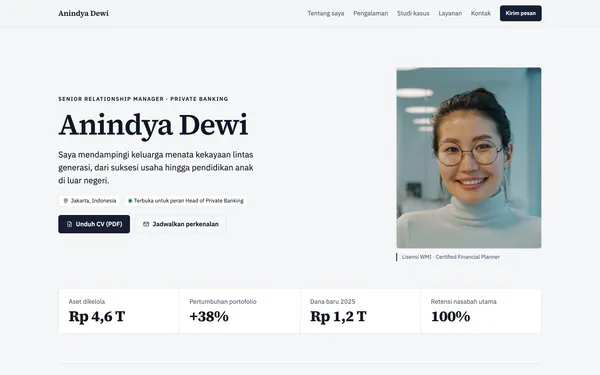
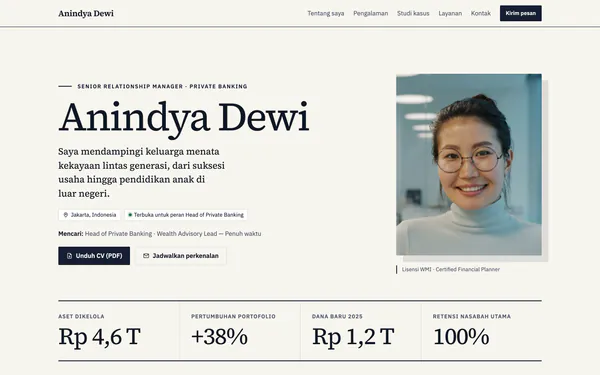
feat(portfolio): redesign the Prima theme as an annual report
Prima read as a generic template: a cold grey page and twelve identical
title-and-content rows with hairlines. It now sets the page like an annual
report: an ivory page and square corners, a large serif name, key figures in
serif numerals between heavy rules, every section under a heavy rule with its
number and serif title, full-width case studies with the first one featured, a
pull-quote testimonial, square timeline markers and contact on an inverted
band.

diff --git a/packages/portfolio/src/themes/prima/css.ts b/packages/portfolio/src/themes/prima/css.ts
@@ -1,11 +1,12 @@
 /**
- * Prima: formal and wide (1160 px), square-ish 6 px corners, white cards on a light grey page, a sticky translucent
- * navigation, the intro beside the photo, a joined KPI strip, and every section as a two-column row (220 px title |
- * content). Values from `mockups/prima.html`; the variants the theme offers (`PORTFOLIO_THEME_INFO.prima.variants`)
+ * Prima: formal and wide (1160 px), set like an annual report: an ivory page, square corners, a sticky masthead, a
+ * large serif name beside the photo, key figures in large serif numerals between rules, and every section under a
+ * heavy rule with its number and serif title in a rail. Case studies take the full width with the first one featured,
+ * the first testimonial is a pull quote, and contact sits on an inverted band. Values from `mockups/prima.html`; the variants the theme offers (`PORTFOLIO_THEME_INFO.prima.variants`)
  * are data attributes.
  */
 export const PRIMA_CSS = String.raw`
-.pf[data-theme="prima"]{--pf-max-width:1160px;--pf-radius:6px;--pf-radius-sm:4px;--pf-hero-ground:var(--pf-surface);--pf-hero-shade:rgb(8 10 14/.68),rgb(8 10 14/.76)}
+.pf[data-theme="prima"]{--pf-max-width:1160px;--pf-radius:2px;--pf-radius-sm:2px;--pf-hero-ground:var(--pf-surface);--pf-hero-shade:rgb(8 10 14/.68),rgb(8 10 14/.76)}
 .pf[data-theme="prima"] .pf-btn{border-radius:var(--pf-radius)}
 .pf[data-theme="prima"] .pf-btn--primary{border-color:color-mix(in oklab,var(--pf-accent) 78%,var(--pf-text))}
 .pf[data-theme="prima"] .pf-chip{border-radius:var(--pf-radius-sm);background:var(--pf-surface);border:1px solid var(--pf-border)}
@@ -129,4 +130,78 @@ export const PRIMA_CSS = String.raw`
 .pf[data-theme="prima"] .pf-workpage__step{background:var(--pf-surface)}
 .pf[data-theme="prima"] .pf-detail__title{font-weight:600}
 .pf[data-theme="prima"] .pf-detail__hero{border:1px solid var(--pf-border)}
+.pf[data-theme="prima"] .pr-head{background:color-mix(in oklab,var(--pf-bg) 90%,transparent);border-bottom:1px solid var(--pf-text)}
+.pf[data-theme="prima"] .pr-brand{font:600 1.25rem/1.2 var(--pf-font-heading);letter-spacing:-.01em}
+.pf[data-theme="prima"] .pf-nav__links a{font-size:var(--pf-text-sm)}
+.pf[data-theme="prima"] .pr-hero{padding-block:clamp(48px,8vw,112px) clamp(48px,6vw,80px)}
+.pf[data-theme="prima"] .pr-name{font-size:min(clamp(3rem,1.6rem + 5.2vw,6rem),calc(var(--pr-col) / (var(--name-word) * .58)));font-weight:500;letter-spacing:-.035em;line-height:.98}
+.pf[data-theme="prima"] .pr-headline{display:flex;align-items:center;gap:14px}
+.pf[data-theme="prima"] .pr-headline::before{content:"";flex:none;width:32px;height:2px;background:currentColor}
+.pf[data-theme="prima"] .pr-greeting{font:400 clamp(1.15rem,1rem + .5vw,1.4rem)/1.5 var(--pf-font-heading);max-width:36ch}
+.pf[data-theme="prima"] .pr-photo{max-width:380px}
+.pf[data-theme="prima"] .pr-photo img{border:0;box-shadow:16px 16px 0 -1px var(--pf-accent-soft),16px 16px 0 0 var(--pf-border)}
+.pf[data-theme="prima"] .pr-photo figcaption{margin-top:14px}
+.pf[data-theme="prima"] .pr-kpis .pf-metrics{gap:0;border:0;border-block:2px solid var(--pf-text);border-radius:0;background:none}
+.pf[data-theme="prima"] .pr-kpis .pf-metrics::after{content:none}
+.pf[data-theme="prima"] .pr-kpis .pf-metrics .pf-metric{gap:10px;padding:28px 28px 30px;background:none}
+.pf[data-theme="prima"] .pr-kpis .pf-metric:first-child{padding-inline-start:0}
+.pf[data-theme="prima"] .pr-kpis .pf-metric+.pf-metric{border-inline-start:1px solid var(--pf-border)}
+.pf[data-theme="prima"] .pr-kpis .pf-metric__label{font:600 var(--pf-text-xs)/1.4 var(--pf-font-body);letter-spacing:.08em;text-transform:uppercase}
+.pf[data-theme="prima"] .pr-kpis .pf-metric__value{font:500 clamp(2.25rem,1.5rem + 2.4vw,3.5rem)/1 var(--pf-font-heading);letter-spacing:-.03em;color:var(--pf-text)}
+.pf[data-theme="prima"] .pr-row{grid-template-columns:260px minmax(0,1fr);grid-template-rows:auto 1fr;column-gap:56px;row-gap:8px;padding-block:28px clamp(56px,7vw,96px);border-top:2px solid var(--pf-text)}
+.pf[data-theme="prima"] .pr-row:last-child{border-bottom:0}
+.pf[data-theme="prima"] .pr-row>.pf-section__title{grid-column:1;grid-row:2;align-self:start;font-size:clamp(1.75rem,1.3rem + 1.4vw,2.5rem);font-weight:500;letter-spacing:-.025em;line-height:1.1}
+.pf[data-theme="prima"] .pr-row__index{grid-column:1;grid-row:1;color:var(--pf-accent-text);font:600 var(--pf-text-xs)/1.6 var(--pf-font-body);letter-spacing:.12em;font-variant-numeric:tabular-nums}
+.pf[data-theme="prima"] .pr-row>.pr-row__body{grid-column:2;grid-row:1/span 2;padding-top:20px}
+.pf[data-theme="prima"] .pr-facts{grid-template-rows:auto;padding-top:clamp(40px,5vw,56px);border-top-width:1px;border-top-color:var(--pf-border)}
+.pf[data-theme="prima"] .pr-lead{font:400 clamp(1.3rem,1.05rem + .8vw,1.75rem)/1.5 var(--pf-font-heading);letter-spacing:-.01em}
+.pf[data-theme="prima"] .pr-lead strong{font-weight:600}
+.pf[data-theme="prima"] .pr-lead p+p{margin-top:.8em;font:400 var(--pf-text-md)/1.65 var(--pf-font-body);color:var(--pf-muted);max-width:62ch}
+.pf[data-theme="prima"] .pr-row:has(.pr-works){grid-template-columns:minmax(0,1fr);grid-template-rows:auto auto auto}
+.pf[data-theme="prima"] .pr-row:has(.pr-works)>.pf-section__title{font-size:clamp(2.25rem,1.5rem + 2.4vw,3.5rem)}
+.pf[data-theme="prima"] .pr-row:has(.pr-works)>.pr-row__body{grid-column:1;grid-row:3;padding-top:32px}
+.pf[data-theme="prima"] .pr-works{gap:28px}
+.pf[data-theme="prima"] .pr-works[data-variant="grid-2"]{grid-template-columns:repeat(2,minmax(0,1fr))}
+.pf[data-theme="prima"] .pr-works[data-variant="grid-3"]{grid-template-columns:repeat(3,minmax(0,1fr))}
+.pf[data-theme="prima"] .pr-works:is([data-variant="grid-2"],[data-variant="grid-3"])>.pr-work:first-child:not([data-noimg]){grid-column:1/-1}
+.pf[data-theme="prima"] .pr-works:is([data-variant="grid-2"],[data-variant="grid-3"])>.pr-work:first-child:not([data-noimg]) .pr-card{grid-template-columns:minmax(0,1.4fr) minmax(0,1fr);grid-template-rows:auto}
+.pf[data-theme="prima"] .pr-works:is([data-variant="grid-2"],[data-variant="grid-3"])>.pr-work:first-child:not([data-noimg]) .pr-card__cover{border-bottom:0;border-inline-end:1px solid var(--pf-border);aspect-ratio:auto;min-height:100%}
+.pf[data-theme="prima"] .pr-works:is([data-variant="grid-2"],[data-variant="grid-3"])>.pr-work:first-child:not([data-noimg]) .pr-card__body{align-content:center;gap:14px;padding:clamp(28px,4vw,56px)}
+.pf[data-theme="prima"] .pr-works:is([data-variant="grid-2"],[data-variant="grid-3"])>.pr-work:first-child:not([data-noimg]) .pr-card__title{font-size:clamp(1.6rem,1.2rem + 1.2vw,2.25rem);line-height:1.15}
+.pf[data-theme="prima"] .pr-works:is([data-variant="grid-2"],[data-variant="grid-3"])>.pr-work:first-child:not([data-noimg]) .pr-card__summary{font-size:var(--pf-text-md)}
+.pf[data-theme="prima"] .pr-card{border-color:var(--pf-border)}
+.pf[data-theme="prima"] .pr-card:is(:hover,:focus-visible){border-color:var(--pf-text);box-shadow:none}
+.pf[data-theme="prima"] .pr-card__meta{font-weight:600;letter-spacing:.06em;text-transform:uppercase;font-size:11px}
+.pf[data-theme="prima"] .pr-card__title{font-size:1.35rem}
+.pf[data-theme="prima"] .pf-work-metric{background:var(--pf-accent-soft);color:var(--pf-accent-text-soft)}
+.pf[data-theme="prima"] .pr-services[data-variant="cards"]{gap:0;border-top:1px solid var(--pf-border);border-inline-start:1px solid var(--pf-border)}
+.pf[data-theme="prima"] .pr-services[data-variant="cards"] .pf-service{border:0;border-inline-end:1px solid var(--pf-border);border-bottom:1px solid var(--pf-border);border-radius:0;padding:28px}
+.pf[data-theme="prima"] .pf-service h3{font:600 var(--pf-text-lg)/1.3 var(--pf-font-heading)}
+.pf[data-theme="prima"] .pf-service__price{font-family:var(--pf-font-heading);font-size:var(--pf-text-md)}
+.pf[data-theme="prima"] .pr-quotes{gap:28px}
+.pf[data-theme="prima"] .pr-quotes .pf-quote{padding:0 0 0 22px;border:0;border-inline-start:2px solid var(--pf-border);border-radius:0;background:none}
+.pf[data-theme="prima"] .pr-quotes:not([data-variant="carousel"]) .pf-quote:first-child{grid-column:1/-1;padding-inline-start:28px;border-inline-start-color:var(--pf-accent-text)}
+.pf[data-theme="prima"] .pr-quotes:not([data-variant="carousel"]) .pf-quote:first-child blockquote{font-size:clamp(1.5rem,1.1rem + 1.4vw,2.25rem);line-height:1.35;letter-spacing:-.01em}
+.pf[data-theme="prima"] .pr-row:has(.pr-contact){--pr-band:var(--pf-text);width:100vw;margin-inline:calc(50% - 50vw);margin-top:24px;padding-inline:max(16px,calc((100vw - var(--pf-max-width)) / 2));padding-block:clamp(48px,6vw,88px);border-top:0;background:var(--pf-text);color:var(--pf-bg)}
+.pf[data-theme="prima"] .pf:has(.pr-contact),.pf[data-theme="prima"]:has(.pr-contact){overflow-x:clip}
+.pf[data-theme="prima"] .pr-row:has(.pr-contact) .pr-row__index{color:inherit;opacity:.7}
+.pf[data-theme="prima"] .pr-row:has(.pr-contact) :is(.pf-contact-links span,.pf-contact-links a){color:inherit}
+.pf[data-theme="prima"] .pr-row:has(.pr-contact) .pf-contact-links span{opacity:.72}
+.pf[data-theme="prima"] .pr-row:has(.pr-contact) .pf-btn--primary{background:var(--pf-bg);color:var(--pf-text);border-color:var(--pf-bg)}
+.pf[data-theme="prima"] .pr-row:has(.pr-contact) .pf-btn--secondary{background:transparent;color:var(--pf-bg);border-color:color-mix(in oklab,var(--pf-bg) 45%,transparent)}
+.pf[data-theme="prima"] .pr-row:has(.pr-contact) .pf-btn--secondary:hover{border-color:var(--pf-bg)}
+.pf[data-theme="prima"] .pr-row:has(.pr-contact) .pf-loc{color:var(--pf-text)}
+.pf[data-theme="prima"] .pr-row:has(.pr-contact) .pf-form{color:var(--pf-text);background:var(--pf-surface);padding:20px}
+.pf[data-theme="prima"] .pr-cta{font:500 clamp(1.75rem,1.2rem + 1.8vw,2.75rem)/1.15 var(--pf-font-heading);letter-spacing:-.02em;max-width:22ch}
+.pf[data-theme="prima"] .pr-main:has(.pr-row:last-child .pr-contact){padding-bottom:0}
+.pf[data-theme="prima"] .pf-foot{border-top:0}
+@media (max-width:1000px){.pf[data-theme="prima"] .pr-works[data-variant="grid-3"]{grid-template-columns:repeat(2,minmax(0,1fr))}}
+@media (max-width:900px){.pf[data-theme="prima"] .pr-kpis .pf-metric:first-child{padding-inline-start:20px}.pf[data-theme="prima"] .pr-kpis .pf-metric{padding:20px}.pf[data-theme="prima"] .pr-kpis .pf-metric+.pf-metric{border-inline-start:0}.pf[data-theme="prima"] .pr-kpis .pf-metric:nth-child(even){border-inline-start:1px solid var(--pf-border)}.pf[data-theme="prima"] .pr-kpis .pf-metric:nth-child(n+3){border-top:1px solid var(--pf-border)}}
+@media (max-width:820px){.pf[data-theme="prima"] .pr-works:is([data-variant="grid-2"],[data-variant="grid-3"]){grid-template-columns:minmax(0,1fr)}.pf[data-theme="prima"] .pr-row{grid-template-columns:minmax(0,1fr);grid-template-rows:auto}.pf[data-theme="prima"] .pr-row>:is(.pr-row__index,.pf-section__title,.pr-row__body){grid-column:1;grid-row:auto}.pf[data-theme="prima"] .pr-row>.pr-row__index{order:-1}.pf[data-theme="prima"] .pr-row>.pr-row__body,.pf[data-theme="prima"] .pr-row:has(.pr-works)>.pr-row__body{padding-top:16px}.pf[data-theme="prima"] .pr-works:is([data-variant="grid-2"],[data-variant="grid-3"])>.pr-work:first-child:not([data-noimg]) .pr-card{grid-template-columns:minmax(0,1fr)}.pf[data-theme="prima"] .pr-works:is([data-variant="grid-2"],[data-variant="grid-3"])>.pr-work:first-child:not([data-noimg]) .pr-card__cover{aspect-ratio:16/10;min-height:0;border-inline-end:0;border-bottom:1px solid var(--pf-border)}.pf[data-theme="prima"] .pr-photo img{box-shadow:10px 10px 0 -1px var(--pf-accent-soft),10px 10px 0 0 var(--pf-border)}}
+.pf[data-theme="prima"] .pf-cvlist[data-variant="timeline"]>.pf-cvitem::before{inset:auto;justify-self:center;width:10px;height:10px;margin-top:8px;border:1.5px solid var(--pf-text);border-radius:0;background:var(--pf-bg)}
+.pf[data-theme="prima"] .pf-cvlist[data-variant="timeline"]>.pf-cvitem:first-child::before{border-color:var(--pf-accent-text);background:var(--pf-accent-text)}
+.pf[data-theme="prima"] .pf-cvlist[data-variant="timeline"]>.pf-cvitem{grid-template-columns:172px 16px minmax(0,1fr)}
+.pf[data-theme="prima"] .pf-cvlist[data-variant="timeline"]>.pf-cvitem::after{inset-inline-start:198px;top:20px;bottom:-6px;width:1px}
+.pf[data-theme="prima"] .pf-cvlist[data-variant="timeline"]>.pf-cvitem>.pf-cvitem__head>.pf-cvitem__when{font-size:var(--pf-text-xs);font-weight:600;letter-spacing:.06em;text-transform:uppercase;font-variant-numeric:tabular-nums}
+@media (max-width:560px){.pf[data-theme="prima"] .pf-cvlist[data-variant="timeline"]>.pf-cvitem{grid-template-columns:16px minmax(0,1fr)}.pf[data-theme="prima"] .pf-cvlist[data-variant="timeline"]>.pf-cvitem::after{inset-inline-start:7.5px;top:20px}}
 `;

diff --git a/packages/portfolio/src/themes/prima/theme.tsx b/packages/portfolio/src/themes/prima/theme.tsx
@@ -111,7 +111,7 @@ function WorkList({ works }: WorkListProps) {
 	);
 }
 
-type SectionProps = { section: PortfolioViewSection };
+type SectionProps = { section: PortfolioViewSection; index: number };
 
 const SECTION_STYLE: SectionBodyStyle = {
 	theme: "prima",
@@ -125,14 +125,17 @@ const SECTION_STYLE: SectionBodyStyle = {
 	),
 };
 
-/** One section as a Prima row: the serif title in a 220 px rail, the content beside it, a rule above. */
-function Row({ section }: SectionProps) {
+/** One section as a Prima row: its number and serif title in a rail, the content beside it, a heavy rule above. */
+function Row({ section, index }: SectionProps) {
 	const { messages } = useRender();
 	return (
 		<Section
 			section={{ anchor: section.anchor, title: titleOf(section, messages) }}
 			className={`pf-section pr-row${section.kind === "custom" ? " pr-custom" : ""}`}
 		>
+			<span className="pr-row__index" aria-hidden="true">
+				{String(index).padStart(2, "0")}
+			</span>
 			<div className="pr-row__body">
 				<SectionBody section={section} style={SECTION_STYLE} />
 			</div>
@@ -167,7 +170,7 @@ export function PrimaPage({ year, creditUrl }: PrimaPageProps) {
 			creditUrl={creditUrl}
 		>
 			<Hero />
-			{groupSections(view.sections).map((group) => {
+			{groupSections(view.sections).map((group, index) => {
 				const first = group[0] as PortfolioViewSection;
 				if (group.length > 1 && EXTRA_KINDS.has(first.kind))
 					return (
@@ -181,7 +184,7 @@ export function PrimaPage({ year, creditUrl }: PrimaPageProps) {
 							</div>
 						</div>
 					);
-				return <Row key={first.key} section={first} />;
+				return <Row key={first.key} section={first} index={index + 1} />;
 			})}
 		</PageShell>
 	);

diff --git a/packages/portfolio/src/themes/palettes.ts b/packages/portfolio/src/themes/palettes.ts
@@ -21,7 +21,7 @@ export const LUGAS_PALETTE: ThemePalette = {
 
 /** Prima: white cards on a very light grey page, ink-blue text. */
 export const PRIMA_PALETTE: ThemePalette = {
-	light: { bg: "#F5F6F8", surface: "#FFFFFF", text: "#0E1726", muted: "#4D596B", border: "#D9DEE6" },
+	light: { bg: "#F7F5EF", surface: "#FFFFFF", text: "#0E1726", muted: "#4D5566", border: "#DCD7CA" },
 	dark: { bg: "#0B101A", surface: "#121A28", text: "#E7EBF2", muted: "#9BA6B7", border: "#243147" },
 };
 
